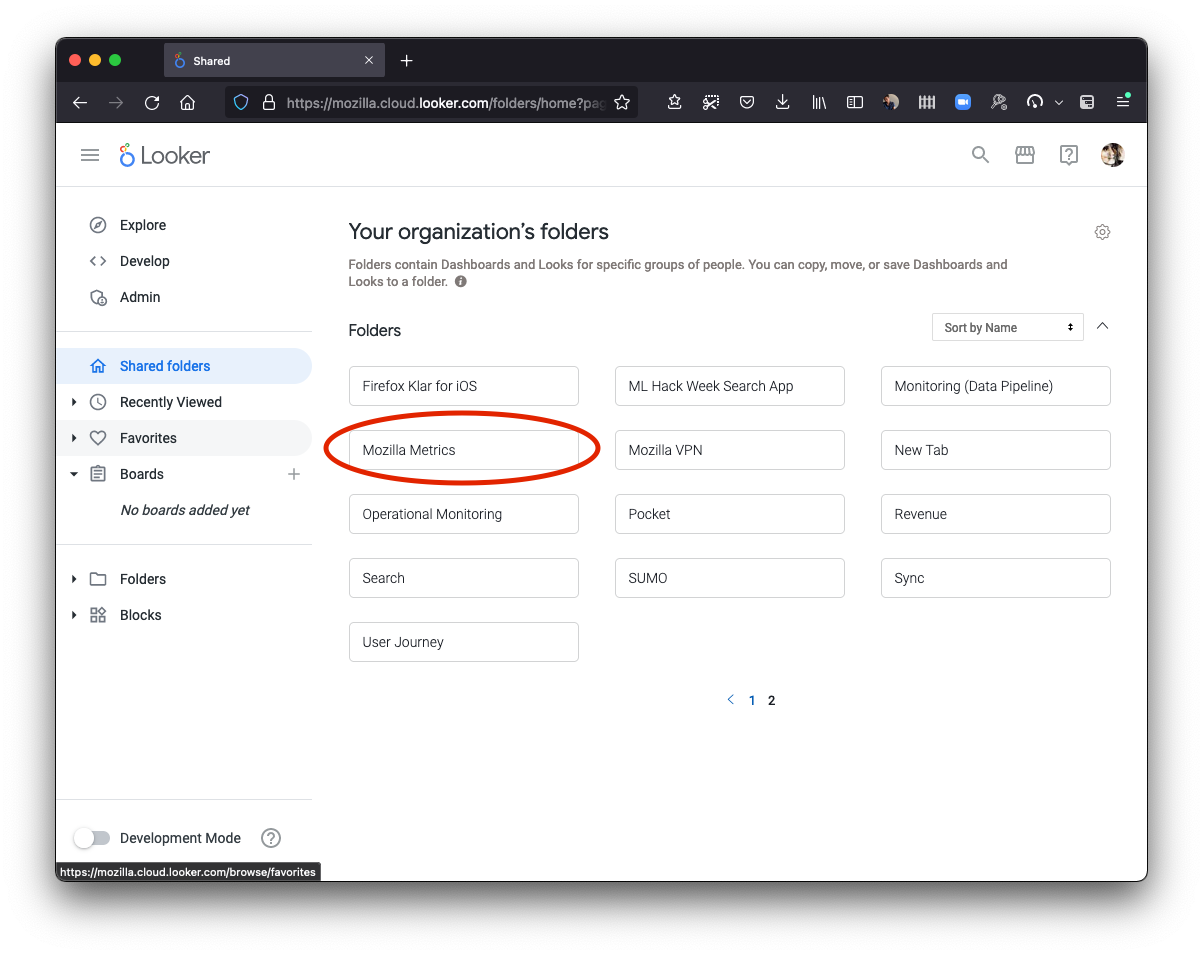
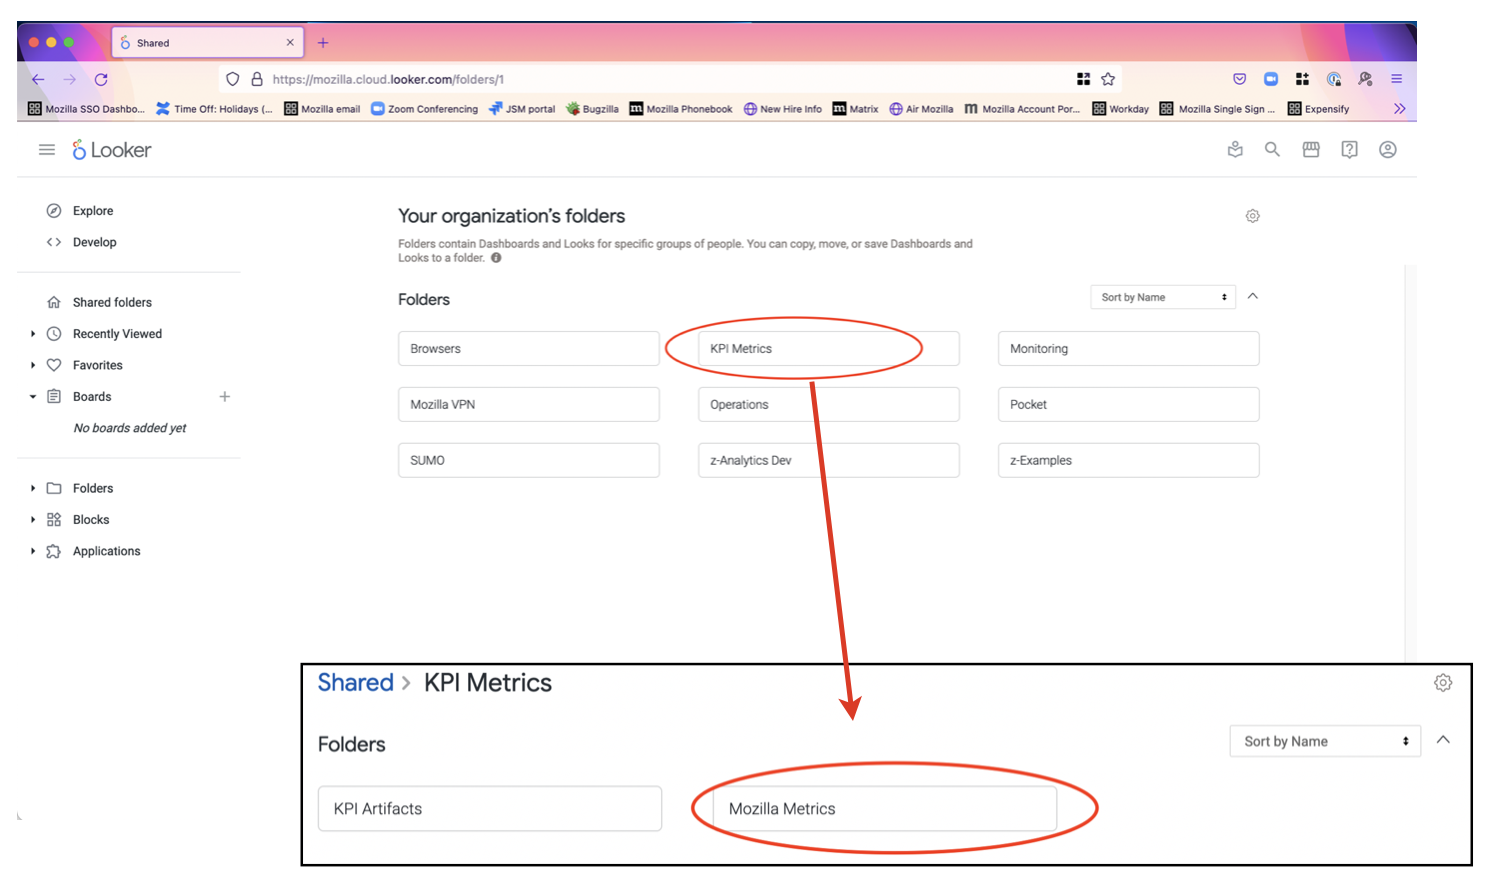
Update location of Mozilla Metrics in docs.

diff --git a/src/cookbooks/looker/intro.md b/src/cookbooks/looker/intro.md
@@ -19,7 +19,7 @@ You can access Mozilla's instance of Looker at [`mozilla.cloud.looker.com`](http
 
 By default, on the front page you will see a list of default folders, which contain links to dashboards.
 These are organized by project.
-Of particular note is the [Mozilla Metrics folder], which includes several Data-produced and vetted dashboards like the Firefox Corporate KPI Dashboard.
+Of particular note is the [Mozilla Metrics folder] inside the [KPI Metrics Folder](https://mozilla.cloud.looker.com/folders/706), which includes several Data-produced and vetted dashboards like the Firefox Corporate KPI Dashboard.
 
 ![](../../assets/Looker_screenshots/front-page.png)
 
